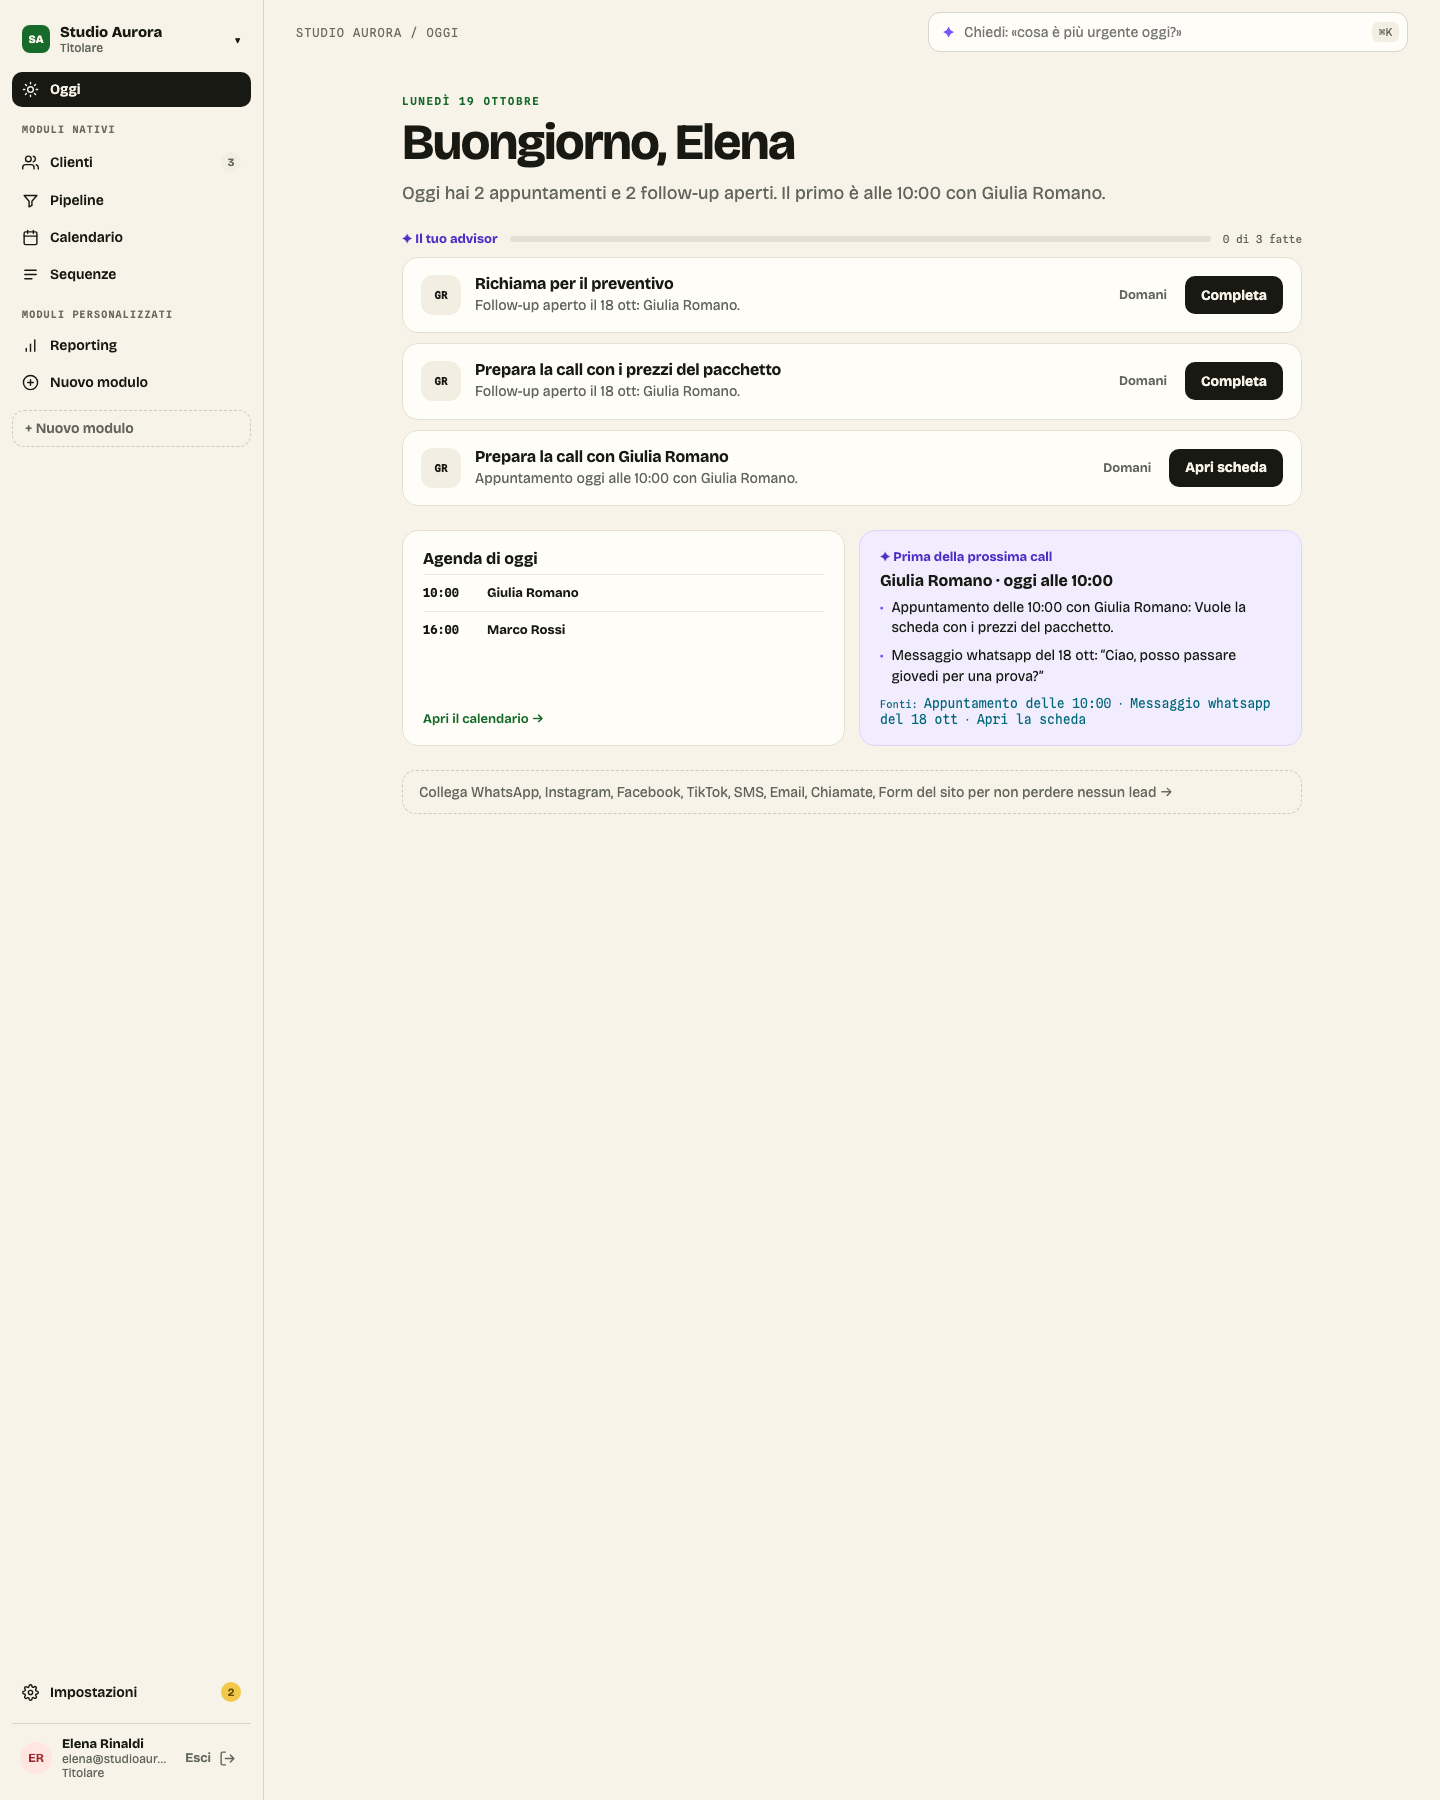
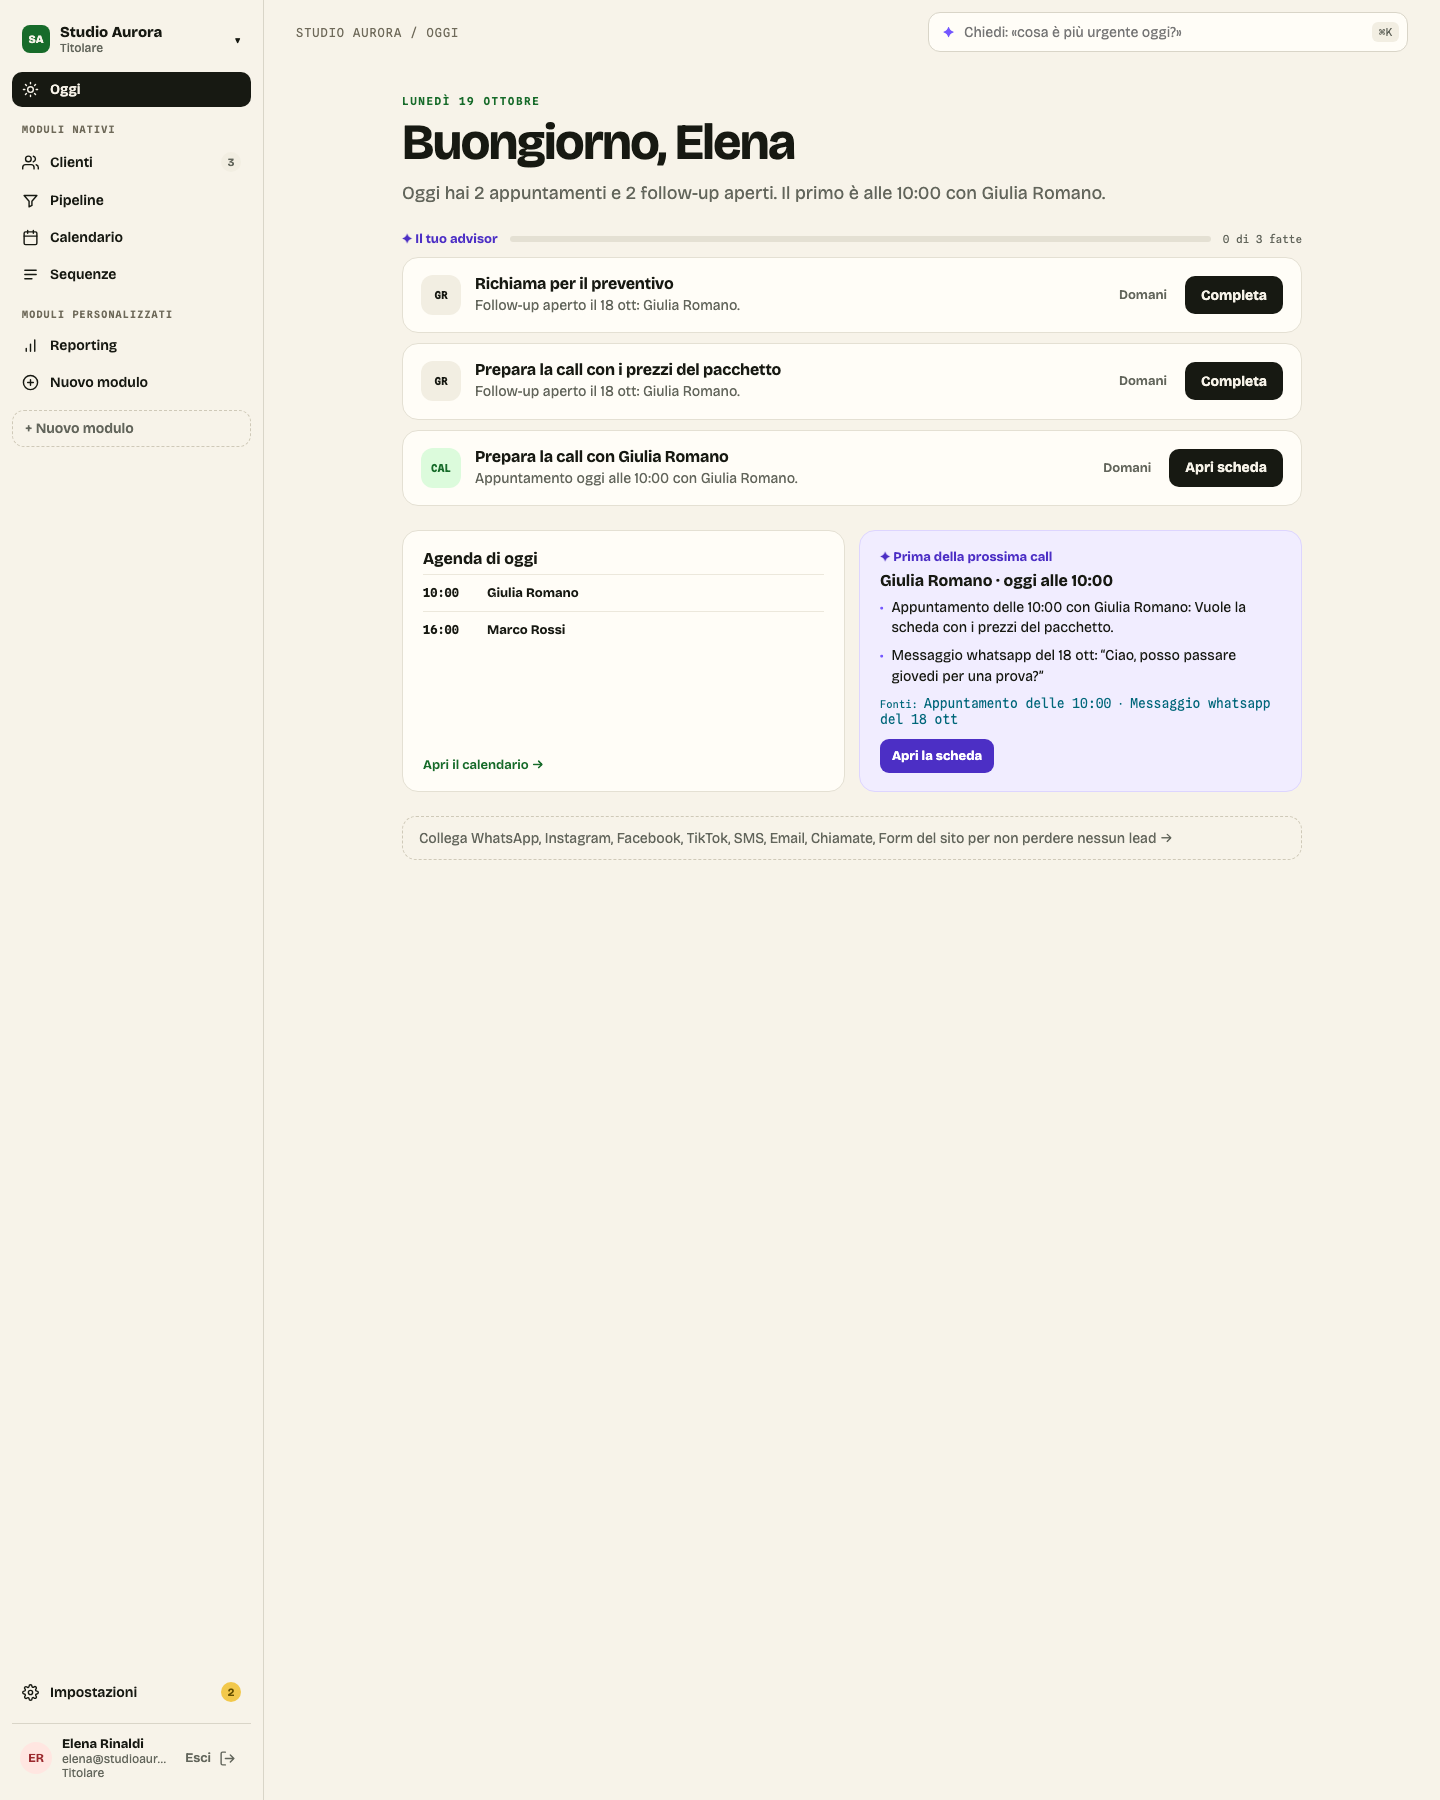
bo: review fixes — channel tiles and AI note in Oggi, brief CTA, sync badge on every settings tab, Calendario draft opens the form
- Oggi: the row badge is the channel tile (CAL for appointment prep, the
  task's channel when it has one), initials only when no channel is
  known; the violet third line renders the action's note when the data
  carries one (never an invented suggestion); the pre-call brief ends
  with the violet "Apri la scheda" button, the other sources stay links.
- Settings: the shell remembers the last fix count it painted, so the
  yellow Stato sync badge shows on every IMPOSTAZIONI tab row.
- Calendario: the manual form opens when a draft fills it (the field is
  draftFill, and absorbing it marks the form open).

Tests: tests/admin-*.test.js and tests/bo-shots.test.js, 659 pass.

Claude-Session: https://claude.ai/code/session_01U2V3GE4czYXfWX5N5yuHkk

Changed region(s): [[0.2812, 0.4044, 0.8125, 0.4667]]

diff --git a/apps/admin/public/admin-oggi.js b/apps/admin/public/admin-oggi.js
@@ -259,6 +259,12 @@ function subjectDisplayLabel(row) {
  * action is about), never a record id or a kind code.
  * @param {unknown} label
  */
+const OGGI_CHANNEL_TILES = Object.freeze({ whatsapp: 'WA', instagram: 'IG', facebook: 'FB', tiktok: 'TT', email: '@', phone: 'TEL', voice: 'TEL', sms: 'SMS', web: 'WEB', stripe: 'S', calendar: 'CAL' });
+/** The prototype's channel tile mark, or null when the channel is unknown. */
+function channelTile(channel) {
+  return OGGI_CHANNEL_TILES[String(channel ?? '').toLowerCase()] ?? null;
+}
+
 function badgeInitials(label) {
   const words = String(label ?? '').trim().split(/\s+/).filter((word) => /\p{L}/u.test(word));
   const marks = words.slice(0, 2).map((word) => (word.match(/\p{L}/u)?.[0] ?? '').toUpperCase());
@@ -275,7 +281,9 @@ function followupAction(task) {
   return Object.freeze({
     id: `bo04:followup:${id}`,
     kind: 'followup',
-    mono: badgeInitials(label),
+    mono: channelTile(task?.channel) ?? badgeInitials(label),
+    channel: nonEmptyText(task?.channel) ?? null,
+    note: nonEmptyText(task?.note) ?? null,
     title,
     why,
     cta: 'Completa',
@@ -309,7 +317,8 @@ function appointmentPrepAction(appointment) {
   return Object.freeze({
     id: `bo04:appointment:${id}`,
     kind: 'appointment-prep',
-    mono: badgeInitials(label),
+    mono: 'CAL',
+    channel: 'calendar',
     title: `Prepara la call con ${label}`,
     why: `Appuntamento oggi alle ${time} con ${label}.`,
     cta: 'Apri scheda',
@@ -850,7 +859,7 @@ function renderAdvisorRow(doc, action, state, events = {}, disabled = false) {
   const row = el(doc, 'div', 'bo-oggi-row');
   row.setAttribute('data-action', String(action?.id ?? ''));
   if (state !== 'open') row.setAttribute('data-state', state);
-  row.appendChild(el(doc, 'span', 'bo-oggi-mono', String(action?.mono ?? '')));
+  row.appendChild(el(doc, 'span', `bo-oggi-mono${action?.channel ? ` bo-tile-${String(action.channel).toLowerCase()}` : ''}`, String(action?.mono ?? '')));
   const body = el(doc, 'div', 'bo-oggi-body');
   // The prototype's title opens the record the suggestion is about.
   const href = typeof action?.href === 'string' && action.href !== '' ? action.href : null;
@@ -858,6 +867,9 @@ function renderAdvisorRow(doc, action, state, events = {}, disabled = false) {
   if (href) title.setAttribute('href', href);
   body.appendChild(title);
   body.appendChild(el(doc, 'p', 'bo-oggi-why', String(action?.why ?? '')));
+  // The prototype's violet third line: the AI's prepared next step, only
+  // when the action carries one — never an invented suggestion.
+  if (typeof action?.note === 'string' && action.note !== '') body.appendChild(el(doc, 'p', 'bo-oggi-note', `✦ ${action.note}`));
   row.appendChild(body);
   if (state === 'open') {
     const controls = el(doc, 'div', 'bo-oggi-btns');
@@ -1056,7 +1068,8 @@ export function renderOggi({
     if (Array.isArray(home.brief.sources) && home.brief.sources.length > 0) {
       const sources = el(doc, 'p', 'bo-oggi-sources');
       sources.appendChild(el(doc, 'span', undefined, 'Fonti: '));
-      home.brief.sources.forEach((source, index) => {
+      const cardSource = home.brief.sources.find((source) => source?.label === 'Apri la scheda') ?? null;
+      home.brief.sources.filter((source) => source !== cardSource).forEach((source, index) => {
         if (index > 0) sources.appendChild(el(doc, 'span', undefined, ' · '));
         const anchor = el(doc, 'a', 'bo-setting-link', String(source?.label ?? ''));
         anchor.setAttribute('href', String(source?.href ?? ''));
@@ -1067,6 +1080,16 @@ export function renderOggi({
         sources.appendChild(anchor);
       });
       brief.appendChild(sources);
+      if (cardSource) {
+        // The prototype's violet CTA under the sources.
+        const open = el(doc, 'a', 'bo-oggi-cta', 'Apri la scheda');
+        open.setAttribute('href', String(cardSource.href ?? ''));
+        open.addEventListener('click', (event) => {
+          if (event && typeof event.preventDefault === 'function') event.preventDefault();
+          navigate(String(cardSource.href ?? ''));
+        });
+        brief.appendChild(open);
+      }
     }
     pair.appendChild(brief);
   }

diff --git a/apps/admin/public/admin-shell.js b/apps/admin/public/admin-shell.js
@@ -119,6 +119,10 @@ export function crumb(spaceName, screenLabel) {
  * real count of things to fix: zero (or unknown) renders no badge at all.
  * @param {unknown} fixCount
  */
+/** The last «things to fix» count the shell painted, so every IMPOSTAZIONI
+ * tab row shows the Stato sync badge, not only the sync screen's own. */
+let lastKnownFixCount = null;
+
 export function settingsBadge(fixCount) {
   if (typeof fixCount !== 'number' || !Number.isInteger(fixCount) || fixCount <= 0) return '';
   return String(fixCount);
@@ -683,7 +687,7 @@ export function createShellView({
 
   return {
     update({ fixCount, clientCount, clientCountExact, activeScreenId, aiScreenId, screenLabel: nextLabel, items, user: nextUser } = {}) {
-      if (fixCount !== undefined) state.fixCount = fixCount;
+      if (fixCount !== undefined) { state.fixCount = fixCount; lastKnownFixCount = fixCount; }
       if (clientCount !== undefined) state.clientCount = clientCount;
       if (clientCountExact !== undefined) state.clientCountExact = clientCountExact;
       if (typeof activeScreenId === 'string') state.activeScreenId = activeScreenId;
@@ -781,7 +785,7 @@ export function renderSettingsPanel({ doc, mount, fixCount = null, navigate = ()
  * @param {any} doc
  * @param {{ activeId?: string, fixCount?: unknown, navigate?: (hash: string) => void }} [options]
  */
-export function settingsTabs(doc, { activeId = 'stato-sync', fixCount = null, navigate = () => {} } = {}) {
+export function settingsTabs(doc, { activeId = 'stato-sync', fixCount = lastKnownFixCount, navigate = () => {} } = {}) {
   const wrap = el(doc, 'div', 'bo-settings-tabs');
   wrap.appendChild(el(doc, 'p', 'bo-settings-label', 'IMPOSTAZIONI'));
   const bar = uiTabs(doc, SETTINGS_AREAS.map((area) => ({

diff --git a/apps/admin/public/styles.css b/apps/admin/public/styles.css
@@ -514,6 +514,12 @@ a.bo-nav-item:hover { background: var(--surface-soft); }
 a.bo-oggi-title { color: var(--ink); text-decoration: none; align-self: flex-start; }
 a.bo-oggi-title:hover { text-decoration: underline; }
 .bo-oggi-why { margin: 0; font-size: 14px; line-height: 1.45; color: var(--muted); }
+.bo-oggi-note { margin: 0; font-size: 13px; color: var(--agent-ink); }
+.bo-oggi-mono.bo-tile-whatsapp, .bo-oggi-mono.bo-tile-calendar { background: var(--accent-soft); color: var(--accent); }
+.bo-oggi-mono.bo-tile-instagram { background: var(--human-soft); color: var(--human-ink); }
+.bo-oggi-mono.bo-tile-facebook, .bo-oggi-mono.bo-tile-sms { background: var(--data-soft); color: var(--data-ink); }
+.bo-oggi-mono.bo-tile-stripe { background: var(--agent-soft); color: var(--agent-ink); }
+.bo-oggi-cta { align-self: flex-start; margin-top: 4px; display: inline-flex; align-items: center; height: 34px; padding: 0 12px; border-radius: 9px; background: var(--agent-ink); color: #fff; font-size: 13px; font-weight: 700; text-decoration: none; }
 .bo-oggi-btns { display: flex; align-items: center; gap: 6px; flex: none; }
 .bo-oggi-btns .ui-btn, .bo-oggi-btns button { height: 38px; padding: 0 16px; border-radius: 10px; font-size: 14px; font-weight: 700; }
 .bo-oggi-btns .ghost { padding: 0 12px; border: none; background: transparent; color: var(--muted); font-size: 13px; font-weight: 600; box-shadow: none; }

diff --git a/apps/admin/public/admin-calendario.js b/apps/admin/public/admin-calendario.js
@@ -1221,7 +1221,7 @@ export function createCalendarioView(deps) {
   function renderManual() {
     // Closed until «Nuovo appuntamento → Compila manualmente» (prototype): the
     // form stays in the DOM, so a draft can still prefill it.
-    const panel = el(doc, 'div', { className: `panel cal-manual${state.manualOpen || state.draft || state.manual ? ' open' : ''}` });
+    const panel = el(doc, 'div', { className: `panel cal-manual${state.manualOpen || state.draftFill || state.manual ? ' open' : ''}` });
     state.manualPanel = panel;
     panel.appendChild(el(doc, 'h2', { text: 'Nuovo appuntamento' }));
     panel.appendChild(el(doc, 'p', {
@@ -1259,6 +1259,7 @@ export function createCalendarioView(deps) {
     state.manualNodes = inputs;
     state.manualFirst = inputs.customerResource ?? null;
     if (state.draftFill) {
+      state.manualOpen = true;
       const draft = state.draftFill;
       if (draft.teamMemberId) inputs.teamMemberId.value = String(draft.teamMemberId);
       if (draft.serviceKey) inputs.serviceKey.value = String(draft.serviceKey);
